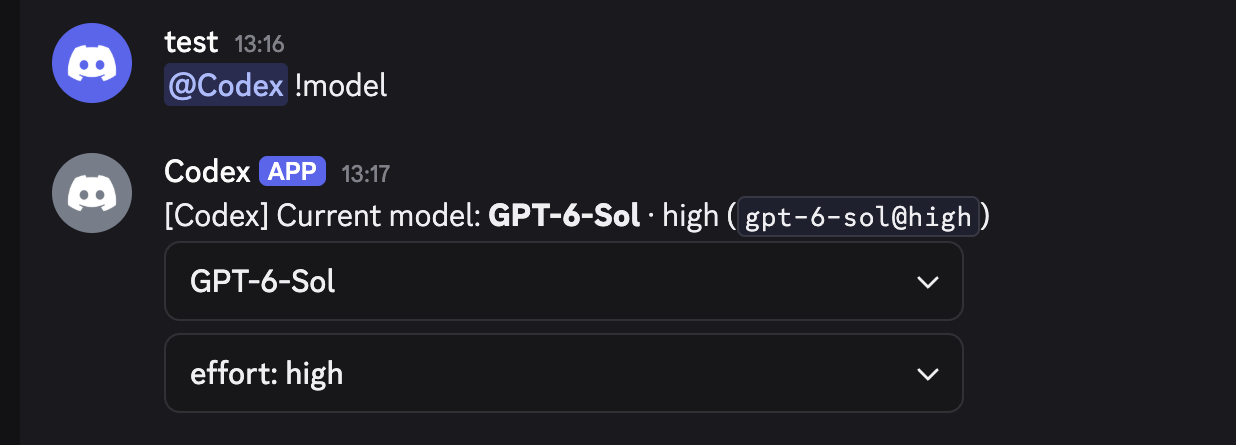
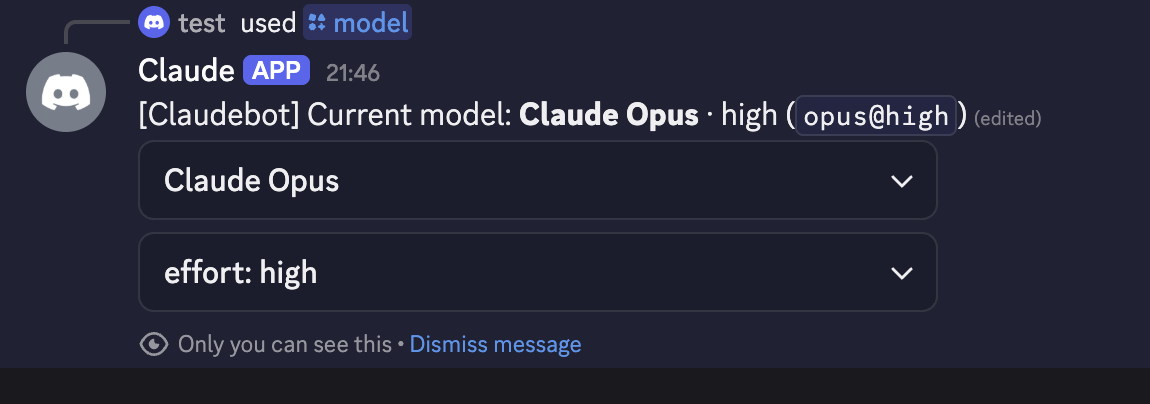
Restore slash command screenshots in READMEs

diff --git a/README.md b/README.md
@@ -35,6 +35,16 @@ You already pay for Claude, ChatGPT, or Gemini. This project turns those subscri
 - **Ask from a message.** Right-click or long-press a message and choose **Apps → Ask** under the bot's app. That bot reads the selected message and its attachments, then replies in the channel.
 - **Forward text messages.** Forward a text message to a bot, and it reads it.
 
+### Slash commands
+
+`/usage-all` shows plan limits for the running bots. Only the requester sees the response.
+
+<img src="docs/usage.png" width="600" alt="Discord /usage-all showing plan usage for ChatGPTbot, Geminibot, and Claudebot">
+
+`/model` lets you choose a model and reasoning effort for the current channel.
+
+<img src="docs/model-picker.png" width="760" alt="Discord /model showing Claude model and effort dropdowns">
+
 ## How it works
 
 ```

diff --git a/README.ko.md b/README.ko.md
@@ -35,6 +35,16 @@
 - **메시지에서 바로 호출:** 메시지를 우클릭하거나 길게 눌러 해당 봇의 **앱 → Ask**를 고르면 봇이 그 메시지와 첨부파일을 읽고 채널에 답합니다.
 - **포워드:** 텍스트 메시지를 봇에게 포워드하면 읽습니다.
 
+### 슬래시 명령
+
+`/usage-all`은 실행 중인 봇들의 요금제 한도를 보여줍니다. 응답은 요청자에게만 보입니다.
+
+<img src="docs/usage.png" width="600" alt="Discord /usage-all에서 ChatGPTbot, Geminibot, Claudebot의 사용량을 보여주는 화면">
+
+`/model`에서 현재 채널의 모델과 추론 강도를 고를 수 있습니다.
+
+<img src="docs/model-picker.png" width="760" alt="Discord /model에서 Claude 모델과 추론 강도를 고르는 메뉴">
+
 ## 작동 구조
 
 ```
